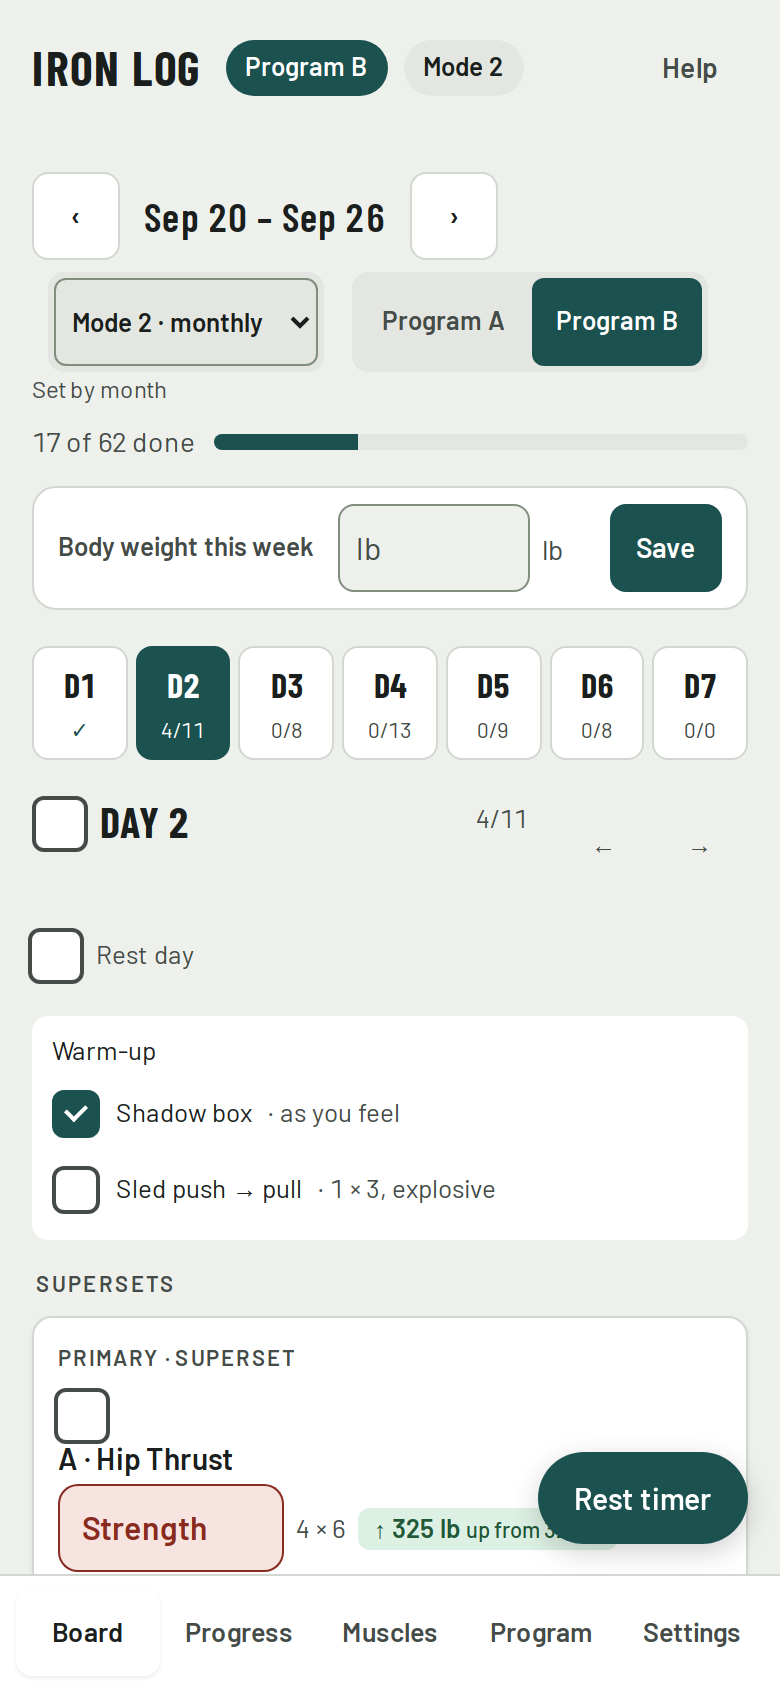
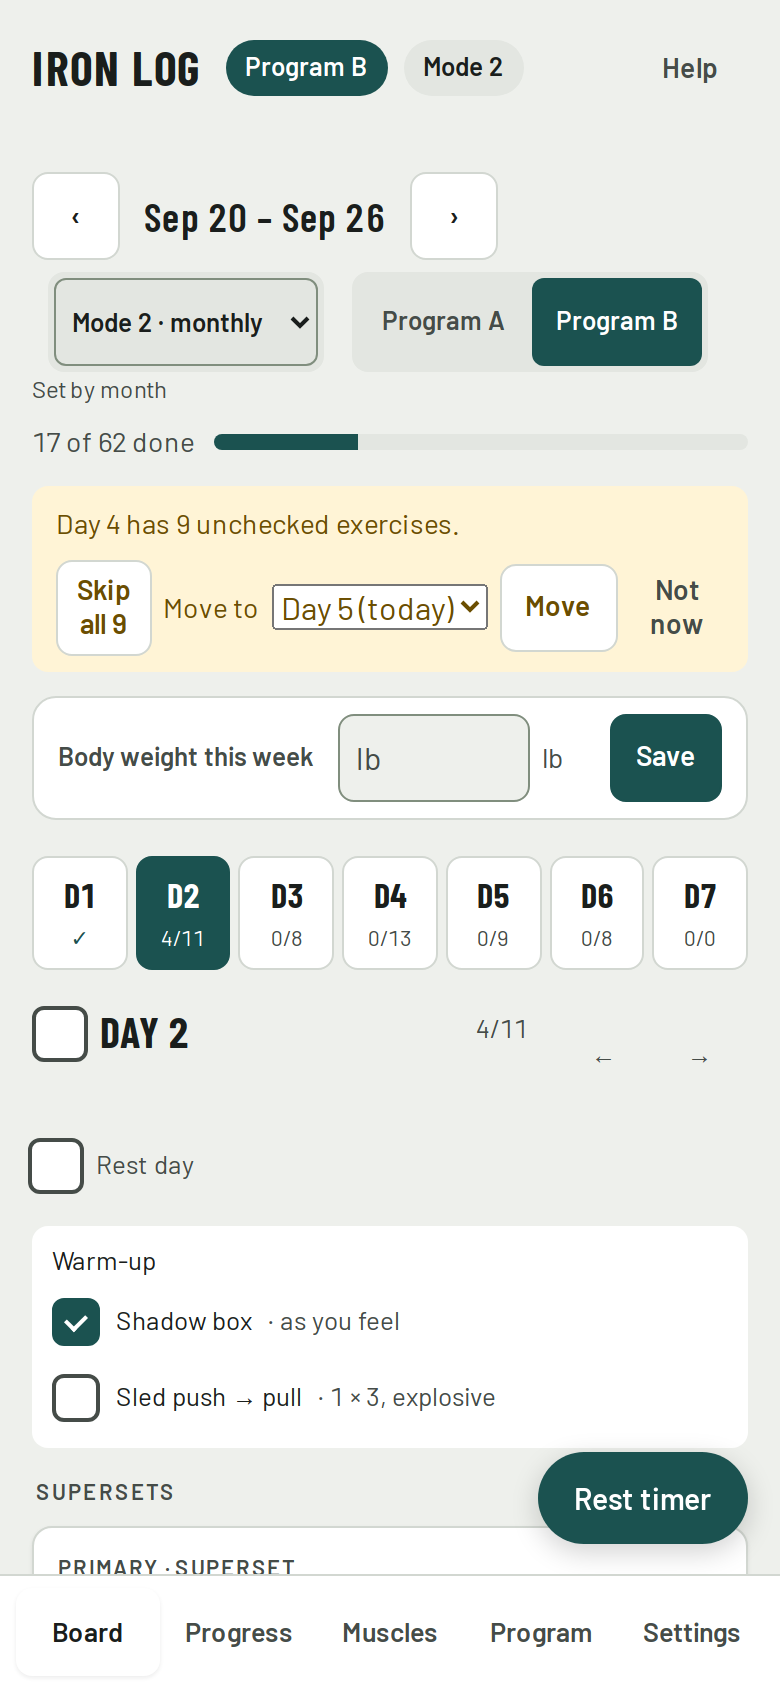
Leftovers notice (#29)
* Notice for yesterday's unchecked exercises: skip all or move all to a later day

* Remove the finished unchecked-exercises item from the roadmap

* Update README screenshots

---------

diff --git a/src/components/board/Board.jsx b/src/components/board/Board.jsx
@@ -3,7 +3,7 @@ import { useAppStore } from '../../store/useAppStore.js';
 import { useToday } from '../../store/useToday.js';
 import { WARMUP, slotsFor } from '../../lib/data.js';
 import { monday, ymd, addDays, fmtShort, fmtDayDate } from '../../lib/dates.js';
-import { tally, currentLayout, isOpen, isSkipped, programFor, progName, DAYS, dayAt, dayTitle, dayDate } from '../../lib/logic.js';
+import { tally, currentLayout, isOpen, isSkipped, programFor, progName, DAYS, dayAt, dayTitle, dayDate, todayCol, leftovers, moveTargets } from '../../lib/logic.js';
 import { LS } from '../../lib/storage.js';
 import { daysSince } from '../../lib/export.js';
 import { motionOK } from '../../lib/motion.js';
@@ -65,6 +65,14 @@ export default function Board() {
 
   const [, forceTips] = useState(0);
   const hideTip = k => { LS.set(k, 1); forceTips(n => n + 1); };
+
+  // Yesterday's column (this week only, not on Sunday): cards with nothing checked, unless hidden for today.
+  const yCol = todayCol(today) - 1; const todayKey = ymd(today);
+  const left = ymd(monday(today)) === wk && yCol >= 1 && LS.get('hideleftovers') !== todayKey ? leftovers(week, slots, yCol) : [];
+  const targets = left.length ? moveTargets(week, slots, yCol) : [];
+  const [pick, setPick] = useState(null);
+  const moveTo = targets.includes(pick) ? pick : targets[0];
+  const hideLeftovers = () => { LS.set('hideleftovers', todayKey); forceTips(n => n + 1); };
 
   const moveRef = useRef(null);
   useEffect(() => { if (moveRef.current) moveRef.current.scrollIntoView({ block: 'nearest', behavior: motionOK() ? 'smooth' : 'instant' }); }, [moveNote]);
@@ -140,6 +148,24 @@ export default function Board() {
         <div className="notice tip">
           <span>{window.claude ? 'Saving on this device only. Open the published page on claude.ai to keep your log everywhere.' : 'Your data is saved in this browser only. Back it up to GitHub in Settings, or use Export on the Progress tab.'}</span>
           <button type="button" className="btn sm ghost" onClick={() => hideTip('hidelocal')}>Got it</button>
+        </div>
+      )}
+      {left.length > 0 && (
+        <div className="notice leftovers" role="status">
+          <div>Day {yCol} has {left.length} unchecked exercise{left.length > 1 ? 's' : ''}.</div>
+          <div className="actions">
+            <button type="button" className="btn sm" onClick={() => st.skipCards(left.map(s => s.id))}>Skip all {left.length}</button>
+            {targets.length > 0 && (
+              <span className="inline">
+                <label htmlFor="leftover-to">Move to</label>
+                <select id="leftover-to" value={moveTo} onChange={e => setPick(Number(e.target.value))}>
+                  {targets.map(c => <option key={c} value={c}>Day {c}{c === yCol + 1 ? ' (today)' : ''}</option>)}
+                </select>
+                <button type="button" className="btn sm" onClick={() => st.moveCards(left.map(s => s.id), moveTo)}>Move</button>
+              </span>
+            )}
+            <button type="button" className="btn sm ghost" onClick={hideLeftovers}>Not now</button>
+          </div>
         </div>
       )}
       {showMove && (

diff --git a/src/lib/logic.test.js b/src/lib/logic.test.js
@@ -4,7 +4,7 @@ import { BUILTIN, slotsFor } from './data.js';
 import {
   DEFAULT_CFG, programFor, round, rxOf, progressionOf, stallOf, targetOf, summarizeSets, setsOfEntry, describe as describeEntry,
   isDone, isItemDone, setCardDone, setItemDone, tally, normWeek, defaultLogDate, currentLayout, moveClashes,
-  programWeights, bestByPhase, autoLogs, DAYS, shownDay, programDay, dayTitle, restBlocked, isOrder, orderOf, posOf, colOf, dayAt, altDay, dayDate,
+  programWeights, bestByPhase, autoLogs, DAYS, shownDay, programDay, dayTitle, restBlocked, isOrder, orderOf, posOf, colOf, dayAt, altDay, dayDate, todayCol, leftovers, moveTargets,
 } from './logic.js';
 
 const cfg = (over = {}) => ({ ...structuredClone(DEFAULT_CFG), ...over });
@@ -381,5 +381,31 @@ describe('normWeek keeps restOn only with a rest day', () => {
     expect(normWeek({ rest: 9, restOn: '2026-09-29' })).not.toHaveProperty('restOn');
     ['9/29/2026', '2026-9-29', 20260929, null, '', {}].forEach(v => expect(normWeek({ rest: 3, restOn: v })).not.toHaveProperty('restOn'));
     expect(normWeek(null)).not.toHaveProperty('restOn');
+  });
+});
+
+describe('yesterday’s leftovers', () => {
+  const mk = (id, day, type = 'single', n = 1) => ({ id, day, type, items: Array.from({ length: n }, () => ({ ex: 'hack', ph: 'hyp' })) });
+  const slots = [mk('a', 3), mk('b', 3), mk('c', 3), mk('p', 3, 'superset', 2), mk('d', 4)];
+  const ids = l => l.map(s => s.id);
+
+  it('todayCol: the week runs Sunday (column 1) to Saturday (column 7)', () => {
+    expect(todayCol(parseDate('2026-09-27'))).toBe(1);
+    expect(todayCol(parseDate('2026-09-30'))).toBe(4);
+    expect(todayCol(parseDate('2026-10-03'))).toBe(7);
+  });
+  it('counts only cards with nothing checked that are not skipped', () => {
+    const w = normWeek({ done: { a: true, 'p#0': true }, skipped: { b: true } });
+    expect(ids(leftovers(w, slots, 3))).toEqual(['c']);
+    expect(ids(leftovers(normWeek({}), slots, 3))).toEqual(['a', 'b', 'c', 'p']);
+  });
+  it('follows swapped days and gives nothing on the rest column', () => {
+    expect(ids(leftovers(normWeek({ order: [1, 2, 4, 3, 5, 6, 7] }), slots, 3))).toEqual(['d']);
+    expect(leftovers(normWeek({ rest: 3 }), slots, 3)).toEqual([]);
+  });
+  it('moveTargets: later columns that are not finished and not the rest day', () => {
+    const w = normWeek({ done: { d: true }, rest: 6 });
+    expect(moveTargets(w, slots, 3)).toEqual([5, 7]); // 4 is finished, 6 is the rest day
+    expect(moveTargets(normWeek({}), slots, 7)).toEqual([]);
   });
 });

diff --git a/src/store/useAppStore.js b/src/store/useAppStore.js
@@ -196,6 +196,23 @@ export const useAppStore = create((set, get) => ({
     });
     if (ok) flag(skipped ? 'Skipped for this week' : 'Skip undone');
   },
+  // Yesterday's leftovers: skip or move a batch of cards at once.
+  skipCards(ids) {
+    const ok = get().mutateChecks(w => ids.forEach(id => { const s = get().slotById(id); w.skipped[id] = true; if (s) clearDone(w, s); }));
+    if (ok) flag(`Skipped ${ids.length} for this week`);
+  },
+  moveCards(ids, day) {
+    const week0 = get().week; const pd = dayAt(week0, day);
+    if (pd == null) { flag('That is your rest day'); return; }
+    const cards = ids.map(id => get().slotById(id)).filter(Boolean); if (!cards.length) return;
+    const batch = Object.fromEntries(cards.map(s => [s.id, week0.moved[s.id] ?? null])); // what undo puts back
+    if (!get().mutateWeek(w => cards.forEach(s => { if (pd === s.day) delete w.moved[s.id]; else w.moved[s.id] = pd; }))) return;
+    const { cfg, week } = get(); const slots = get().activeSlots();
+    const lines = [...new Set(cards.flatMap(s => moveClashes(cfg, week, slots, s, day)))];
+    const fromShown = colOf(week0, week0.moved[cards[0].id] || cards[0].day);
+    set({ moveNote: lines.length ? { batch, fromShown, to: day, week: get().weekKey(), lines } : null });
+    flag(`Moved ${cards.length} to Day ${day}${lines.length ? ' · heads-up' : ''}`);
+  },
   setWarm(day, wid, on) {
     const pd = dayAt(get().week, day); if (pd == null) return;
     get().mutateWeek(w => { w.warm[pd] = w.warm[pd] || {}; w.warm[pd][wid] = on; });
@@ -245,6 +262,11 @@ export const useAppStore = create((set, get) => ({
   },
   undoMove() {
     const n = get().moveNote; if (!n || n.week !== get().weekKey()) return;
+    if (n.batch) {
+      set({ moveNote: null });
+      if (get().mutateWeek(w => Object.entries(n.batch).forEach(([id, v]) => { if (v == null) delete w.moved[id]; else w.moved[id] = v; }))) flag(`Moved back to Day ${n.fromShown}`);
+      return;
+    }
     const s = get().slotById(n.slot); set({ moveNote: null });
     if (s && get().mutateWeek(w => { if (n.from === s.day) delete w.moved[n.slot]; else w.moved[n.slot] = n.from; })) flag(`Moved back to Day ${n.fromShown}`);
   },

diff --git a/src/store/useAppStore.test.js b/src/store/useAppStore.test.js
@@ -259,3 +259,32 @@ describe('day dates', () => {
     expect(dayDate(col7, st().logs, st().weekKey())).toBe(defaultLogDate(st().weekStart));
   });
 });
+
+describe('bulk skip and move (yesterday’s leftovers)', () => {
+  it('skips every card it is given', () => {
+    st().skipCards(['A-d1s1', 'A-d1s2']);
+    expect(st().week.skipped).toMatchObject({ 'A-d1s1': true, 'A-d1s2': true });
+    expect(saved('weeks/' + st().weekKey()).skipped['A-d1s2']).toBe(true);
+  });
+  it('moves every card to the workout shown in the column, following swaps', () => {
+    st().swapDays(6, 1); // column 7 now shows the Day 6 workout
+    st().moveCards(['A-d1s1', 'A-d1s2'], 7);
+    expect(st().week.moved).toMatchObject({ 'A-d1s1': 6, 'A-d1s2': 6 });
+  });
+  it('refuses the rest column', () => {
+    st().setRestDay(3);
+    st().moveCards(['A-d1s1'], 3);
+    expect(st().week.moved['A-d1s1']).toBeUndefined();
+  });
+  it('warns about clashes, and undo puts the whole batch back', () => {
+    // A-d6s5 (Arnold Press + Zercher Squat) is also on Day 4, right before column 5.
+    st().moveCards(['A-d6s1', 'A-d6s5'], 5);
+    expect(st().week.moved).toMatchObject({ 'A-d6s1': 5, 'A-d6s5': 5 });
+    expect(st().moveNote.lines.length).toBeGreaterThan(0);
+    expect(st().moveNote.fromShown).toBe(6);
+    st().undoMove();
+    expect(st().week.moved['A-d6s1']).toBeUndefined();
+    expect(st().week.moved['A-d6s5']).toBeUndefined();
+    expect(st().moveNote).toBeNull();
+  });
+});

diff --git a/src/lib/logic.js b/src/lib/logic.js
@@ -205,6 +205,13 @@ export function altDay(cfg, week, slots, s, day, from) {
   return null;
 }
 
+/* ---------- Yesterday's leftovers ---------- */
+export const todayCol = date => date.getDay() + 1; // the week runs Sunday (column 1) to Saturday (column 7)
+// Cards in column c with nothing checked that aren't skipped; none on the rest column.
+export const leftovers = (week, slots, c) => (dayAt(week, c) == null ? [] : currentLayout(week, slots)[c].filter(s => !isSkipped(s, week) && !s.items.some((_, i) => isItemDone(s, i, week))));
+// Later columns a batch can move to: not the rest day and not already finished.
+export function moveTargets(week, slots, c) { const cols = currentLayout(week, slots); return DAYS.filter(d => d > c && dayAt(week, d) != null && !tally(cols[d], week).full); }
+
 export function holdPlan(cfg, week, logs, slot, idx) {
   const it = slot.items[idx]; const ph = phaseOf(cfg, week, slot, idx); const rx = rxOf(cfg, it, ph);
   const m = rx.match(/(\d+)\s*×\s*(\d+)(?:\s*[–-]\s*(\d+))?/); const sets = m ? Number(m[1]) : 4;

diff --git a/src/styles.css b/src/styles.css
@@ -71,8 +71,9 @@ header.top h1{font-size:30px;margin:0;font-weight:700;text-transform:uppercase;l
 .bar{width:140px;height:8px;border-radius:4px;background:var(--sunk);overflow:hidden}
 .bar i{display:block;height:100%;background:var(--accent)}
 .notice{background:var(--warn-bg);color:var(--warn-ink);padding:8px 12px;border-radius:8px;font-size:14px;margin-block:0 12px}
-.notice.movewarn{display:flex;flex-wrap:wrap;gap:8px 12px;align-items:center;justify-content:space-between}
-.notice.movewarn .actions{margin:0;gap:6px}
+.notice.movewarn,.notice.leftovers{display:flex;flex-wrap:wrap;gap:8px 12px;align-items:center;justify-content:space-between}
+.notice.movewarn .actions,.notice.leftovers .actions{margin:0;gap:6px;align-items:center}
+.notice.leftovers .inline{flex-wrap:wrap;gap:6px}
 .notice.tip{display:flex;gap:8px;align-items:center;justify-content:space-between;background:var(--sunk);color:var(--ink)}
 .edtop{display:flex;flex-wrap:wrap;gap:8px;padding-block:8px 12px}
 .edtop .seg{margin-left:0;flex-wrap:wrap}

diff --git a/src/components/sheets/HelpSheet.jsx b/src/components/sheets/HelpSheet.jsx
@@ -20,6 +20,7 @@ const GLOSSARY = [
   ['Mobility', 'Stretching or movement work. It isn’t counted toward any muscle.'],
   ['Warm-up', 'Short exercises before each day’s session.'],
   ['Make-up day', 'Day 5 is meant for anything you skipped earlier in the week. Use Move to put exercises there.'],
+  ['Unchecked yesterday', 'When yesterday still has exercises with nothing checked, a notice at the top of the board offers to skip them all or move them all to a later day. Not now hides it until tomorrow.'],
   ['Skip', 'Leaves an exercise out of this week’s counts without deleting it.'],
   ['D1 to D7', 'Day 1 to Day 7 of the week’s plan.'],
   ['Rest day', 'Tick Rest day on a day to rest. Your workouts from that day on move one day later, and the rest day counts as done. Untick to undo. You can’t add one while Day 7 has exercises.'],

diff --git a/README.md b/README.md
@@ -46,7 +46,7 @@ It's a React app built with Vite. You can install it on your phone or computer l
 
 ## Features
 
-- **Weekly board.** One column per training day (Sunday to Saturday week). You can check off exercises one at a time or a whole day at once. In a superset each exercise has its own checkbox and counts on its own; an either/or counts once, whichever option you do. When equipment is taken, drag a card to another day (or use "Move to" on a phone). If the move puts an exercise on the same day as, or the day next to, another session of that exercise, a heads-up says so, offers to move it back, and suggests the nearest day where it wouldn't clash. The make-up day (normally Day 5) is for anything skipped earlier in the week. **Skip** takes an exercise out of this week's counts without deleting it, and checking it off later undoes the skip. Checking off an exercise you haven't logged also logs its planned numbers (the target weight and sets × reps on the card), marked "from check-off", so it shows in Progress; unchecking removes that entry, and logging your real numbers replaces it. Done and skipped exercises drop to the bottom of their day, so what's left is always on top.
+- **Weekly board.** One column per training day (Sunday to Saturday week). You can check off exercises one at a time or a whole day at once. In a superset each exercise has its own checkbox and counts on its own; an either/or counts once, whichever option you do. When equipment is taken, drag a card to another day (or use "Move to" on a phone). If the move puts an exercise on the same day as, or the day next to, another session of that exercise, a heads-up says so, offers to move it back, and suggests the nearest day where it wouldn't clash. The make-up day (normally Day 5) is for anything skipped earlier in the week. When yesterday still has unchecked exercises, a notice offers to skip them all or move them all to a later day. **Skip** takes an exercise out of this week's counts without deleting it, and checking it off later undoes the skip. Checking off an exercise you haven't logged also logs its planned numbers (the target weight and sets × reps on the card), marked "from check-off", so it shows in Progress; unchecking removes that entry, and logging your real numbers replaces it. Done and skipped exercises drop to the bottom of their day, so what's left is always on top.
 - **Rest day.** Tick Rest day on any day of the week and your workouts from that day on move one day later. Untick to put them back.
 - **Swap days.** Small arrows on each day swap it with its neighbor for the current week. The next week starts in your program's normal order.
 - **Day dates.** Each day's header shows the weekday and date once something on it is logged or checked off, so you can see which days you trained.

diff --git a/TODO.md b/TODO.md
@@ -56,7 +56,6 @@ These change how days and exercises are stored. Do them together so the data str
 
 - [ ] Preserve board view state on page refresh (currently goes back to board).
 - [ ] When the app opens, start on the current week.
-- [ ] Remove the unfinished pull button; instead, show a notification about the previous day with unchecked exercises and offer to bulk skip them or move to a specific unfinished day.
 
 ## Anytime
 
